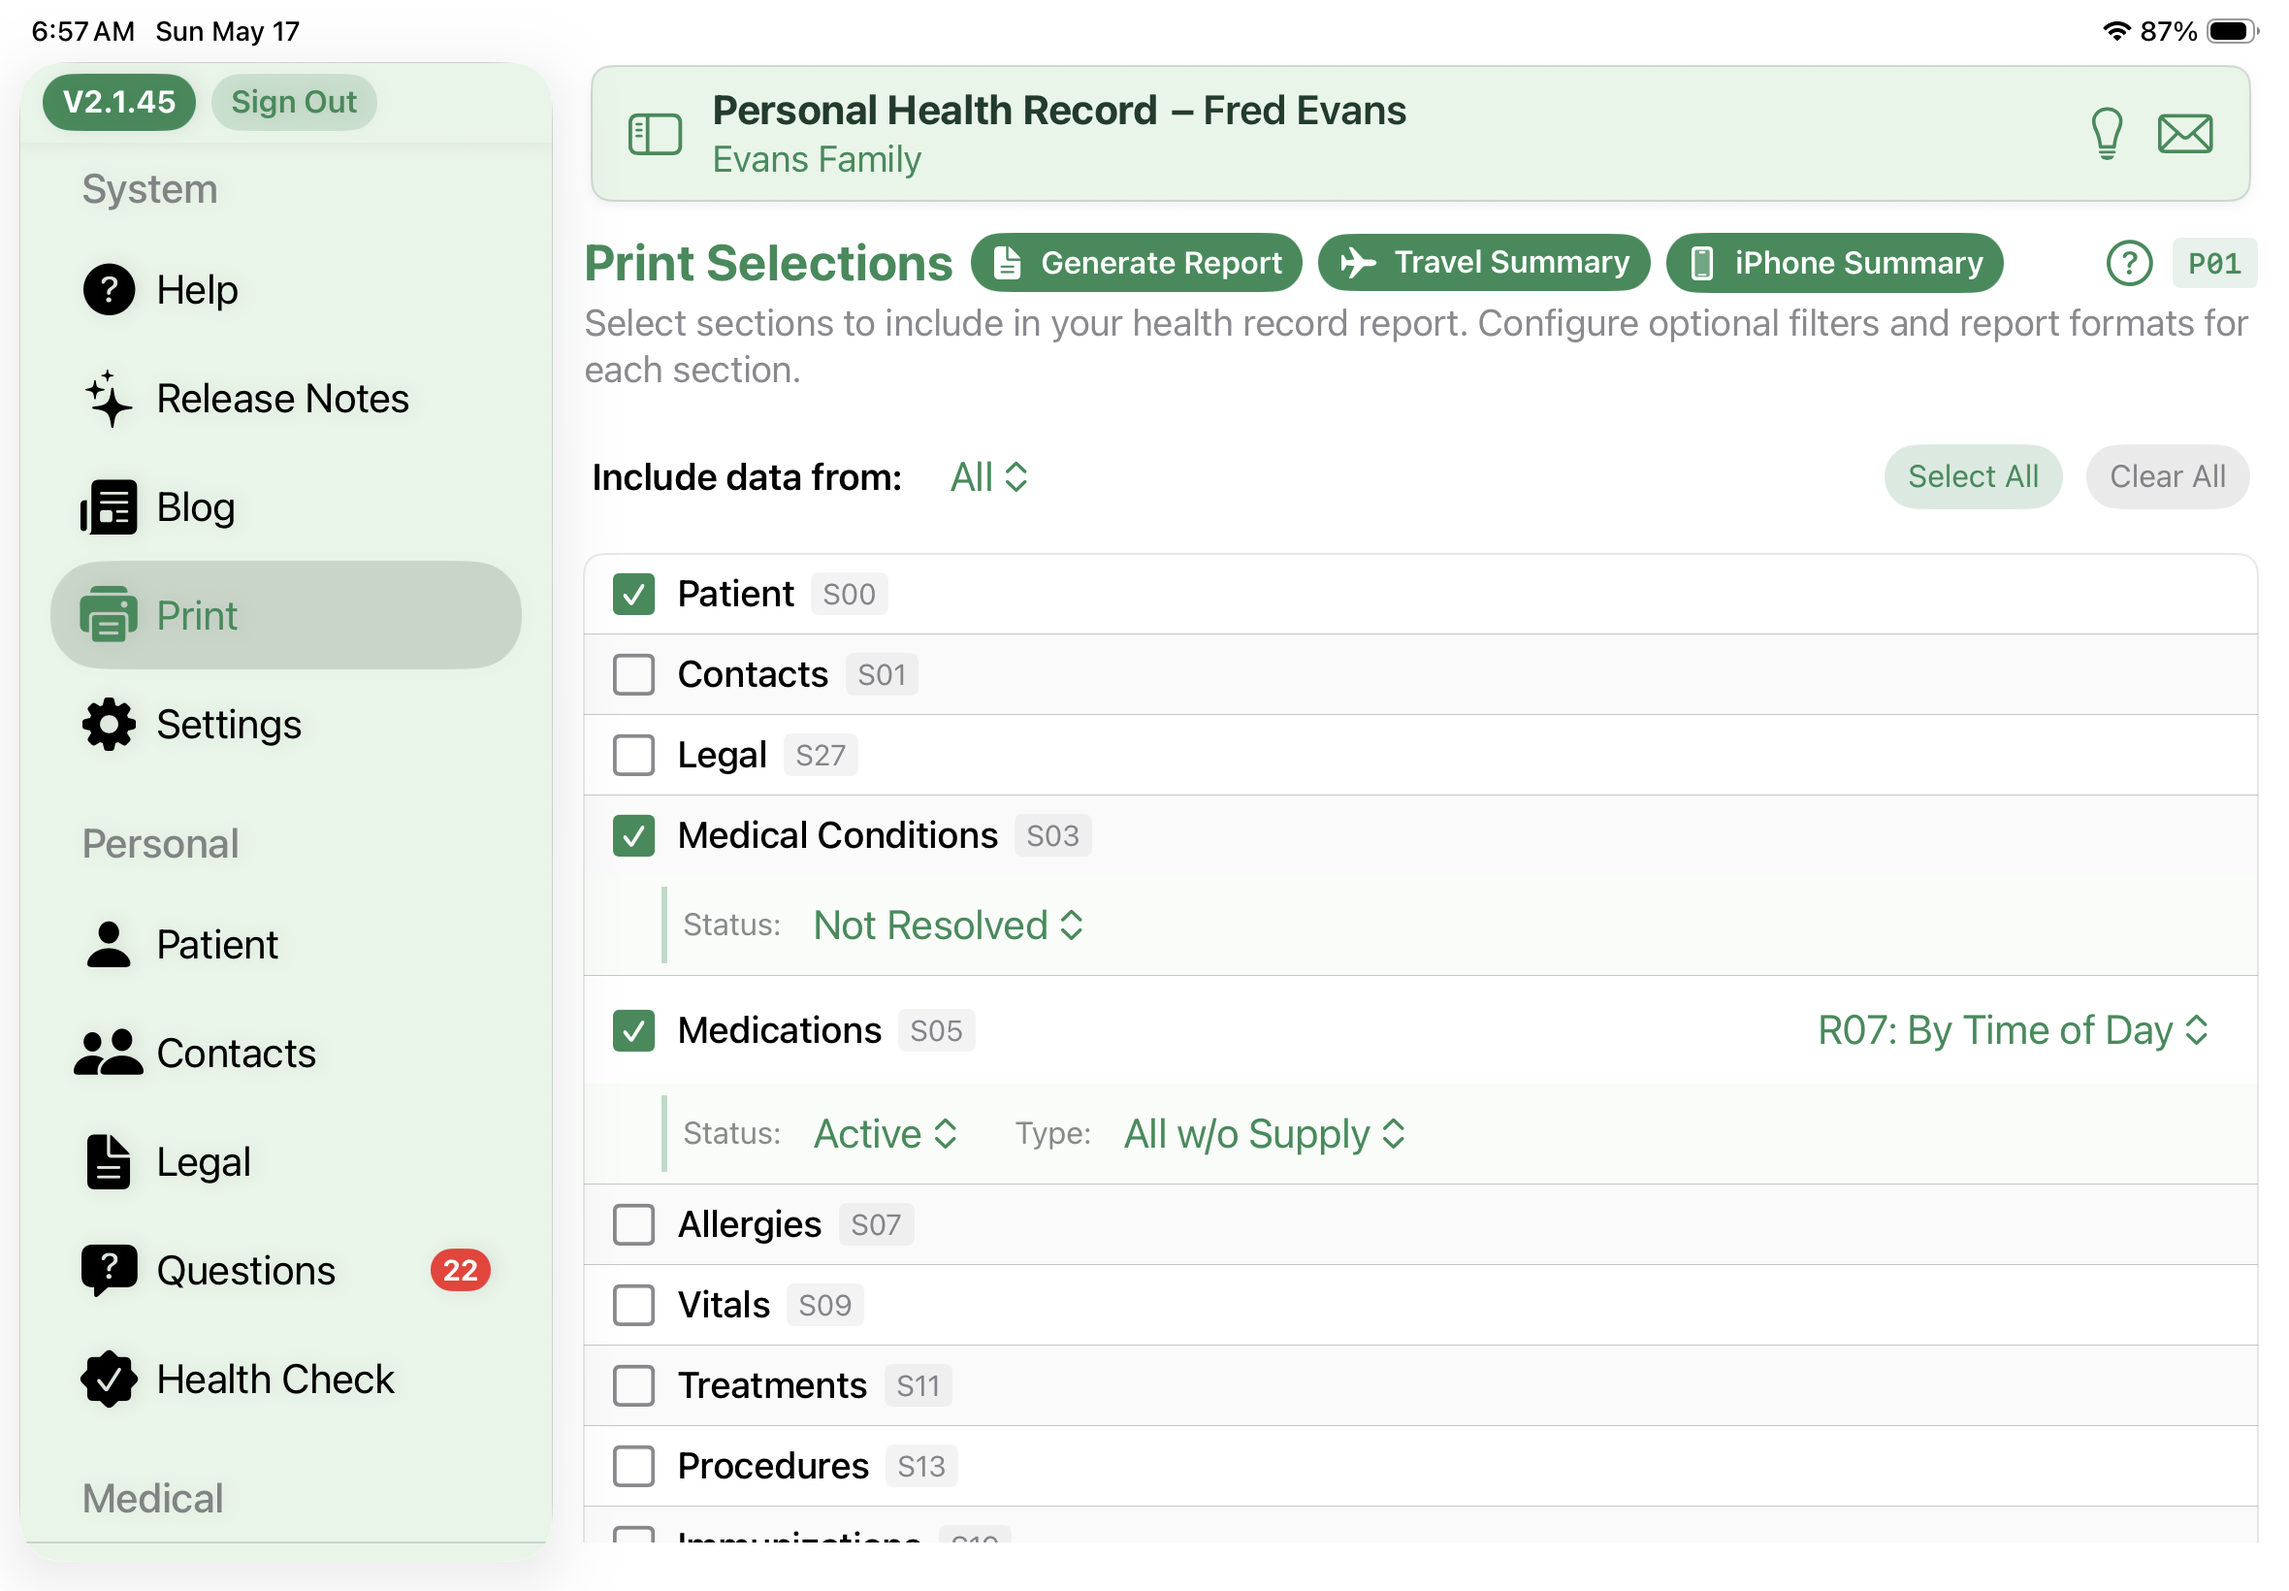
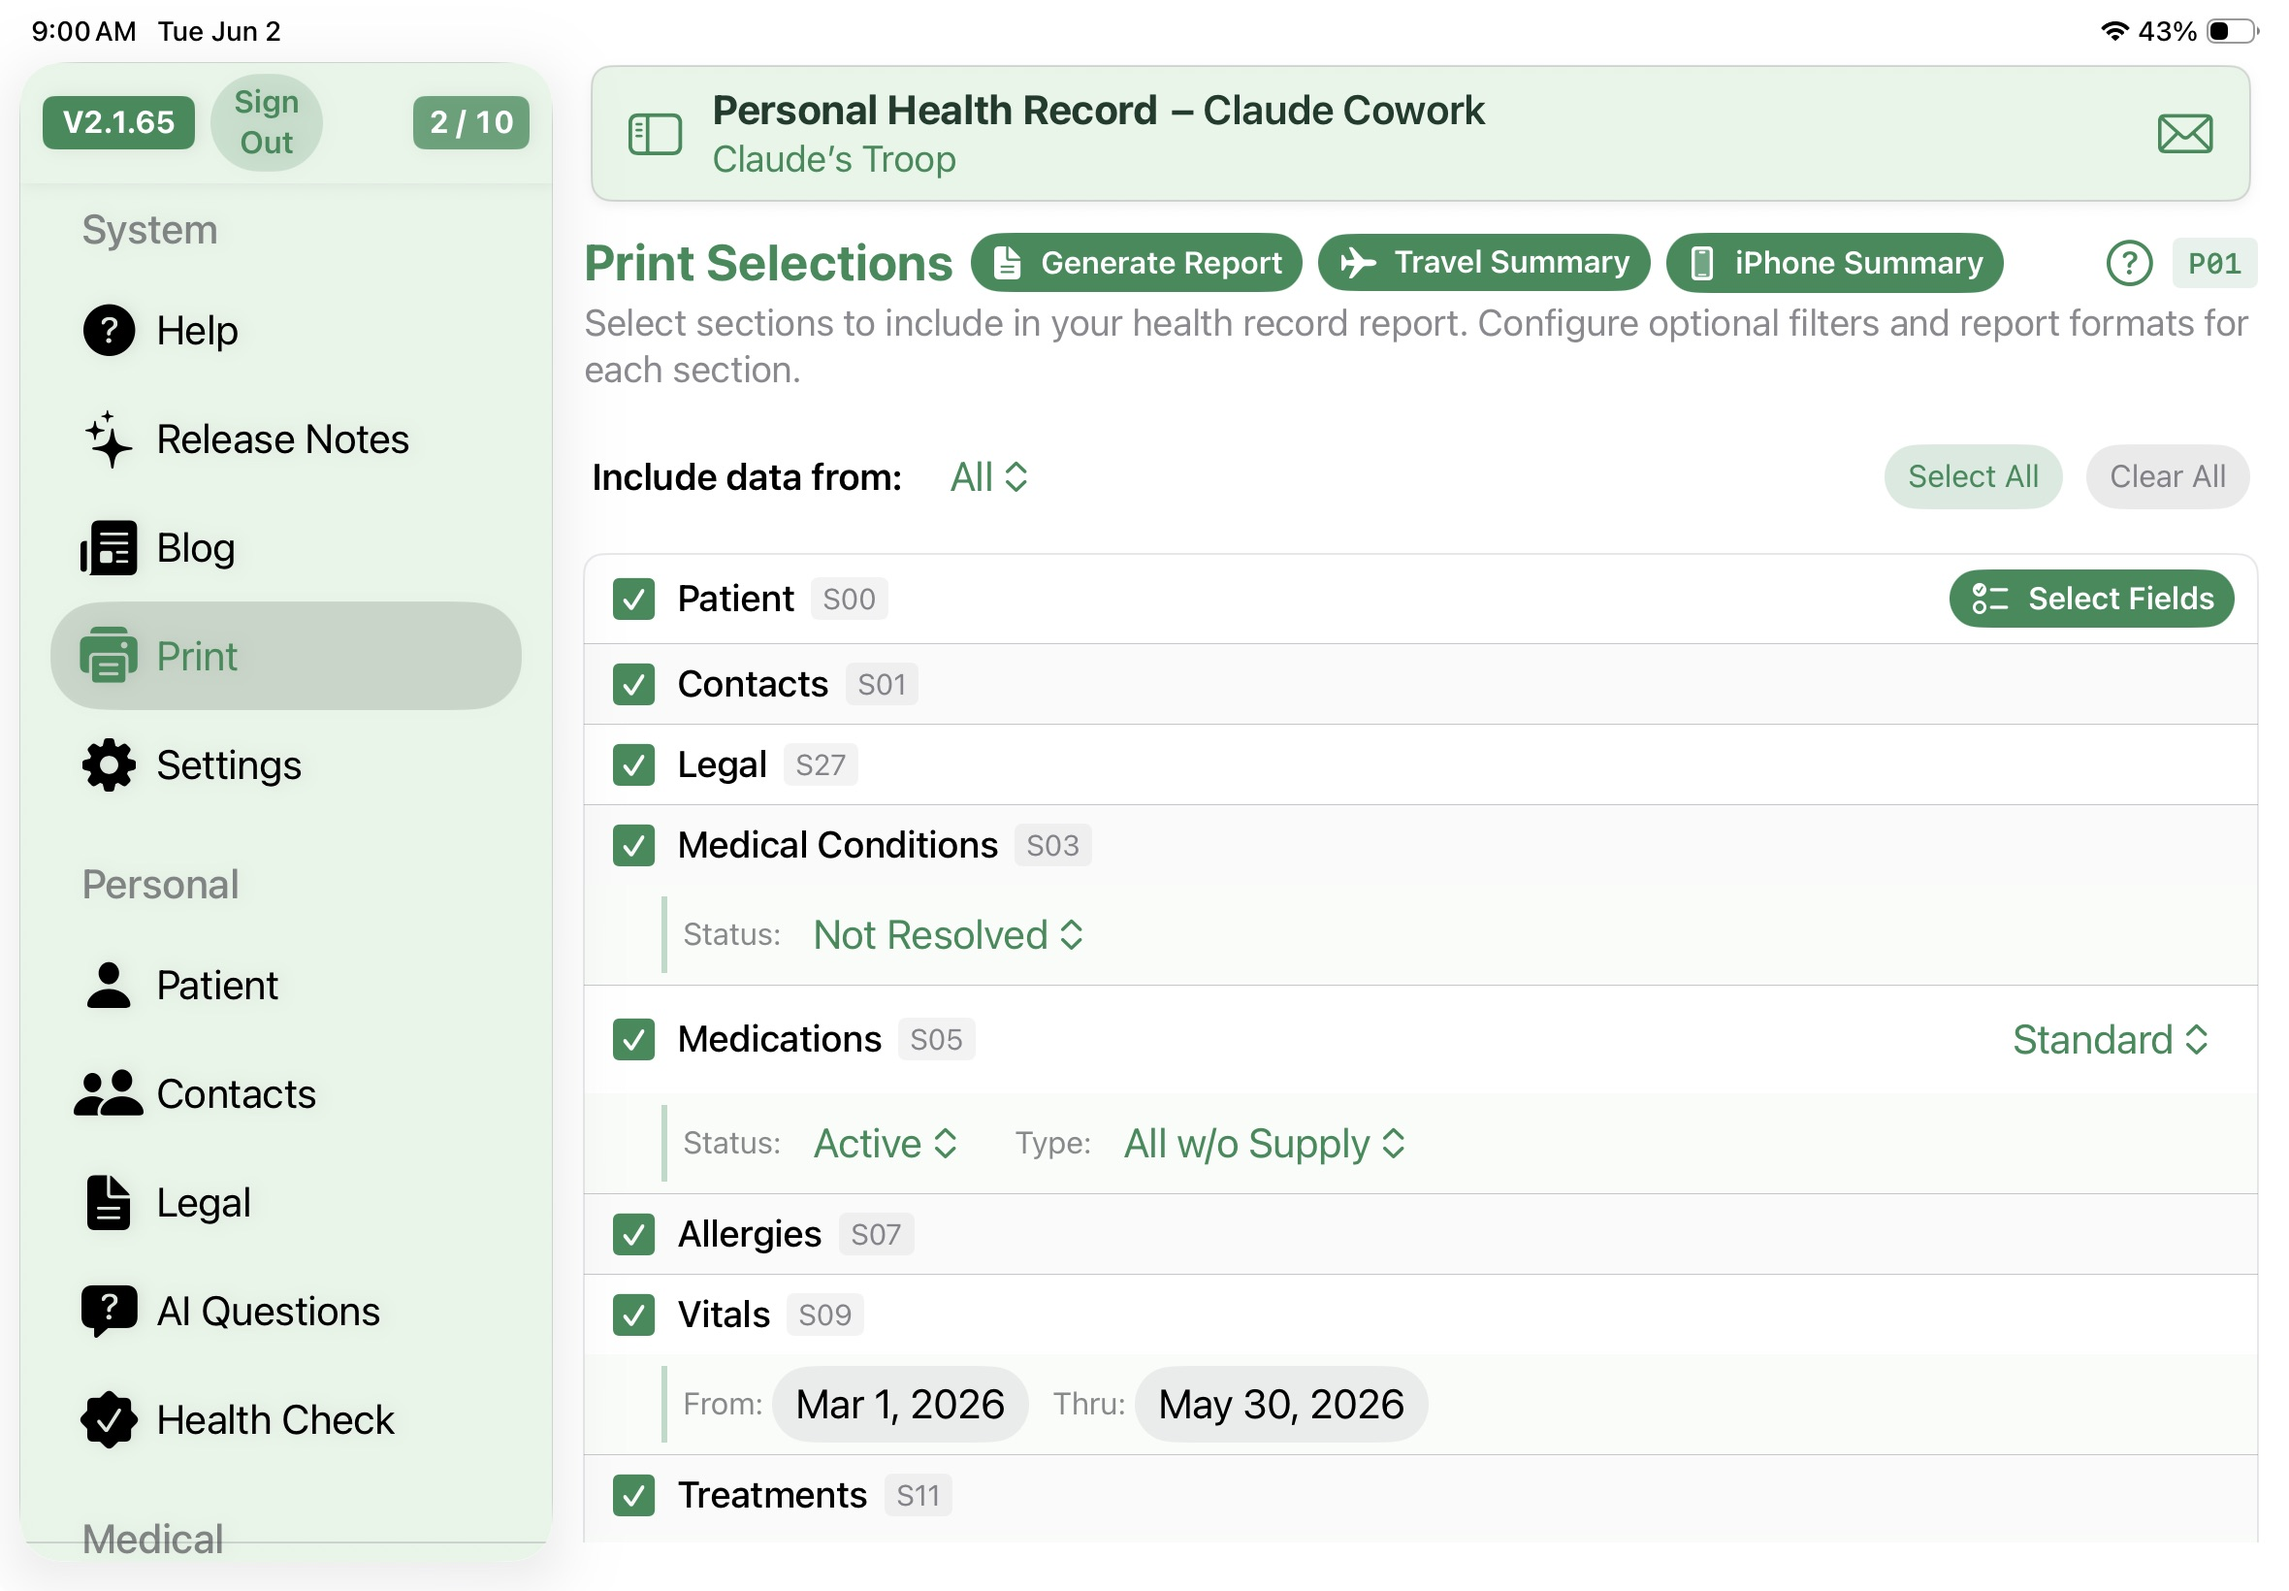
Update website

diff --git a/privacy.html b/privacy.html
@@ -42,7 +42,7 @@
   <!-- Page Header -->
   <section class="page-header">
     <h1>Privacy Policy</h1>
-    <p>Evans &amp; Associates PHR, LLC — Effective Date: May 20, 2026</p>
+    <p>Evans &amp; Associates PHR, LLC — Effective Date: June 4, 2026</p>
   </section>
 
   <!-- Privacy Content -->
@@ -67,6 +67,8 @@
       <li><em>Backups</em> — You may export a backup of your database to a location you choose (e.g., external drive, iCloud Drive). We do not receive or store your backups.</li>
       <li><em>Transfer Patient</em> — You may export a single patient's records as a .phrp file to move them to another iPad. The file goes wherever you tell iOS to send it (AirDrop, the Files app, email, etc.). We do not receive or store transferred files.</li>
       <li><em>Medication Lookups</em> — When you use the NIH Lookup or FDA Drug Info features on the Medications screen, your search terms are sent to the National Institutes of Health (clinicaltables.nlm.nih.gov — NIH RxTerms / Clinical Table Search Service) and the U.S. Food and Drug Administration (api.fda.gov) to retrieve drug names, labels, and interaction data. These are U.S. government public APIs. No personal health records or patient information is transmitted — only the drug name you search for.</li>
+      <li><em>Provider Lookup</em> — When you look up a care provider by name on the Contacts screen, the provider name (and optional state) you type is sent to the U.S. government's NPI Registry (npiregistry.cms.hhs.gov) to find that provider's National Provider Identifier and practice details. This is a public U.S. government directory of healthcare providers. Only the provider name you enter is sent — none of your own patient information.</li>
+      <li><em>Blog Updates (optional)</em> — If you turn on blog updates in Settings, PHR periodically fetches the list of articles from our website (evansassoc-phr.com). This feature is off by default and sends no personal or health information — only a request for the public article list.</li>
       <li><em>Sharing / Printing</em> — You may print or share health reports through your device's built-in sharing features. These actions use your device's native capabilities and do not route through our servers.</li>
       <li><em>Health Check (AI Analysis)</em> — If you run a Health Check, PHR sends a de-identified snapshot of the patient record to the AI service you have configured (Claude, OpenAI, Gemini, or xAI (Grok)) using the API key you have entered on this device. The snapshot includes age (as an integer), sex, height, weight, lifestyle notes, and the clinical categories you choose.</li>
     </ul>
@@ -104,7 +106,7 @@
 
     <h2>9. Contact</h2>
     <p>Questions about this Privacy Policy may be directed to:</p>
-    <p>Evans &amp; Associates PHR, LLC<br><a href="mailto:Fred@evansassoc-phr.com">Fred@evansassoc-phr.com</a></p>
+    <p>Evans &amp; Associates PHR, LLC<br>Fred@evansassoc-phr.com</p>
 
   </section>
 
@@ -127,7 +129,7 @@
       <div class="footer-links">
         <h4>Contact</h4>
         <ul>
-          <li><a href="mailto:Fred@evansassoc-phr.com">Fred@evansassoc-phr.com</a></li>
+          <li>Fred@evansassoc-phr.com</li>
           <li><a href="support.html">Get Help</a></li>
         </ul>
       </div>

diff --git a/support.html b/support.html
@@ -74,7 +74,7 @@
     <p>When you tap Interaction Check on the Medications screen, PHR sends the names of your active medications to the U.S. Food and Drug Administration's openFDA database (api.fda.gov) to check for known interactions. Only medication names are sent &mdash; no personal information. PHR also uses the NIH Clinical Table Search Service (clinicaltables.nlm.nih.gov) for drug-name lookup when you're entering a new medication. You can save the interaction report as a landscape PDF and share it with your pharmacist.</p>
 
     <h3 style="font-size: 0.95rem; font-weight: 600; color: var(--phr-green-dark); margin-top: 12px; margin-bottom: 4px;">Does Ask AI cost money?</h3>
-    <p>It depends on which AI service you pick. Perplexity opens in Safari and doesn't require an account or subscription. Claude (Anthropic), ChatGPT (OpenAI), Gemini (Google), and xAI (Grok) each require a paid subscription with the vendor &mdash; you supply your own API key, and the vendor bills you directly. PHR doesn't charge for or resell AI service.</p>
+    <p>It depends on which AI service you pick. Perplexity opens in Safari and doesn't require an account or subscription. Google's Gemini has a free tier with no credit card required &mdash; enough for the light, everyday use most personal users need. Claude (Anthropic), ChatGPT (OpenAI), and xAI (Grok) each require a paid subscription &mdash; you supply your own API key and the vendor bills you directly &mdash; but for typical personal use the cost is small and goes a long way. PHR doesn't charge for or resell AI service.</p>
 
     <h3 style="font-size: 0.95rem; font-weight: 600; color: var(--phr-green-dark); margin-top: 12px; margin-bottom: 4px;">What's the difference between Ask AI and Health Check?</h3>
     <p>Ask AI sends your question &mdash; and any file you attach &mdash; to the AI service exactly as typed. Names, dates, or other identifying details are sent through unchanged, so review your question before sending. Health Check is the opposite: it builds a de-identified snapshot of your record (only age, sex, height, weight, and the categories you check) and sends that for analysis. No name, date of birth, address, phone, email, or record numbers leave the device during a Health Check.</p>
@@ -108,7 +108,7 @@
       <div class="footer-links">
         <h4>Contact</h4>
         <ul>
-          <li><a href="mailto:Fred@evansassoc-phr.com">Fred@evansassoc-phr.com</a></li>
+          <li>Fred@evansassoc-phr.com</li>
           <li><a href="support.html">Get Help</a></li>
         </ul>
       </div>

diff --git a/features.html b/features.html
@@ -360,7 +360,7 @@
       <div class="footer-links">
         <h4>Contact</h4>
         <ul>
-          <li><a href="mailto:Fred@evansassoc-phr.com">Fred@evansassoc-phr.com</a></li>
+          <li>Fred@evansassoc-phr.com</li>
           <li><a href="support.html">Get Help</a></li>
         </ul>
       </div>

diff --git a/get-started.html b/get-started.html
@@ -196,7 +196,7 @@
       <div class="footer-links">
         <h4>Contact</h4>
         <ul>
-          <li><a href="mailto:Fred@evansassoc-phr.com">Fred@evansassoc-phr.com</a></li>
+          <li>Fred@evansassoc-phr.com</li>
           <li><a href="support.html">Get Help</a></li>
         </ul>
       </div>

diff --git a/index.html b/index.html
@@ -206,7 +206,7 @@
       <div class="footer-links">
         <h4>Contact</h4>
         <ul>
-          <li><a href="mailto:Fred@evansassoc-phr.com">Fred@evansassoc-phr.com</a></li>
+          <li>Fred@evansassoc-phr.com</li>
           <li><a href="support.html">Get Help</a></li>
         </ul>
       </div>

diff --git a/why-phr.html b/why-phr.html
@@ -110,7 +110,7 @@
       <div class="footer-links">
         <h4>Contact</h4>
         <ul>
-          <li><a href="mailto:Fred@evansassoc-phr.com">Fred@evansassoc-phr.com</a></li>
+          <li>Fred@evansassoc-phr.com</li>
           <li><a href="support.html">Get Help</a></li>
         </ul>
       </div>
